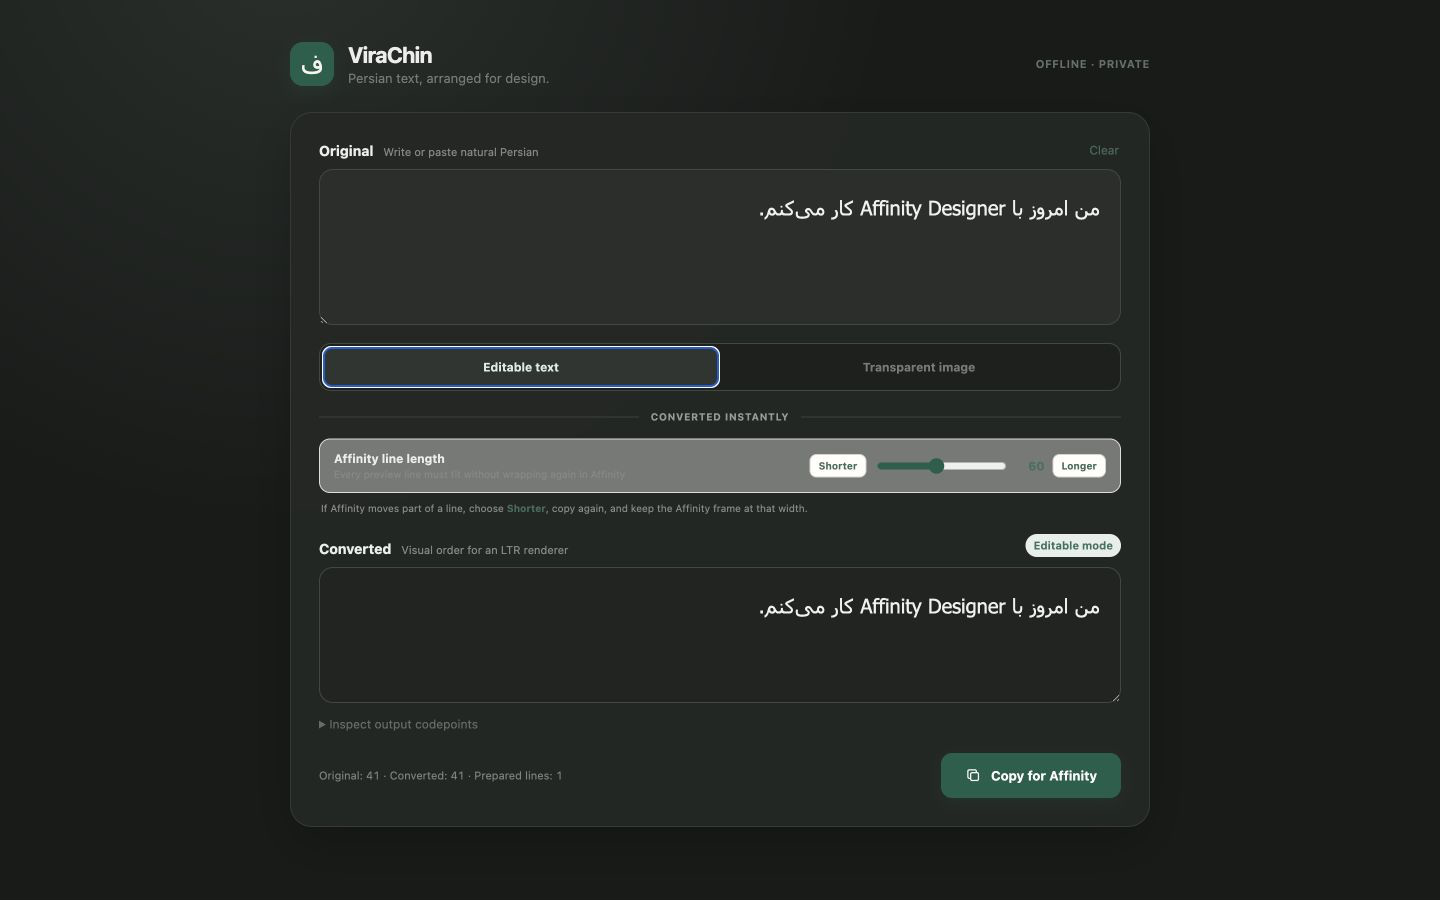
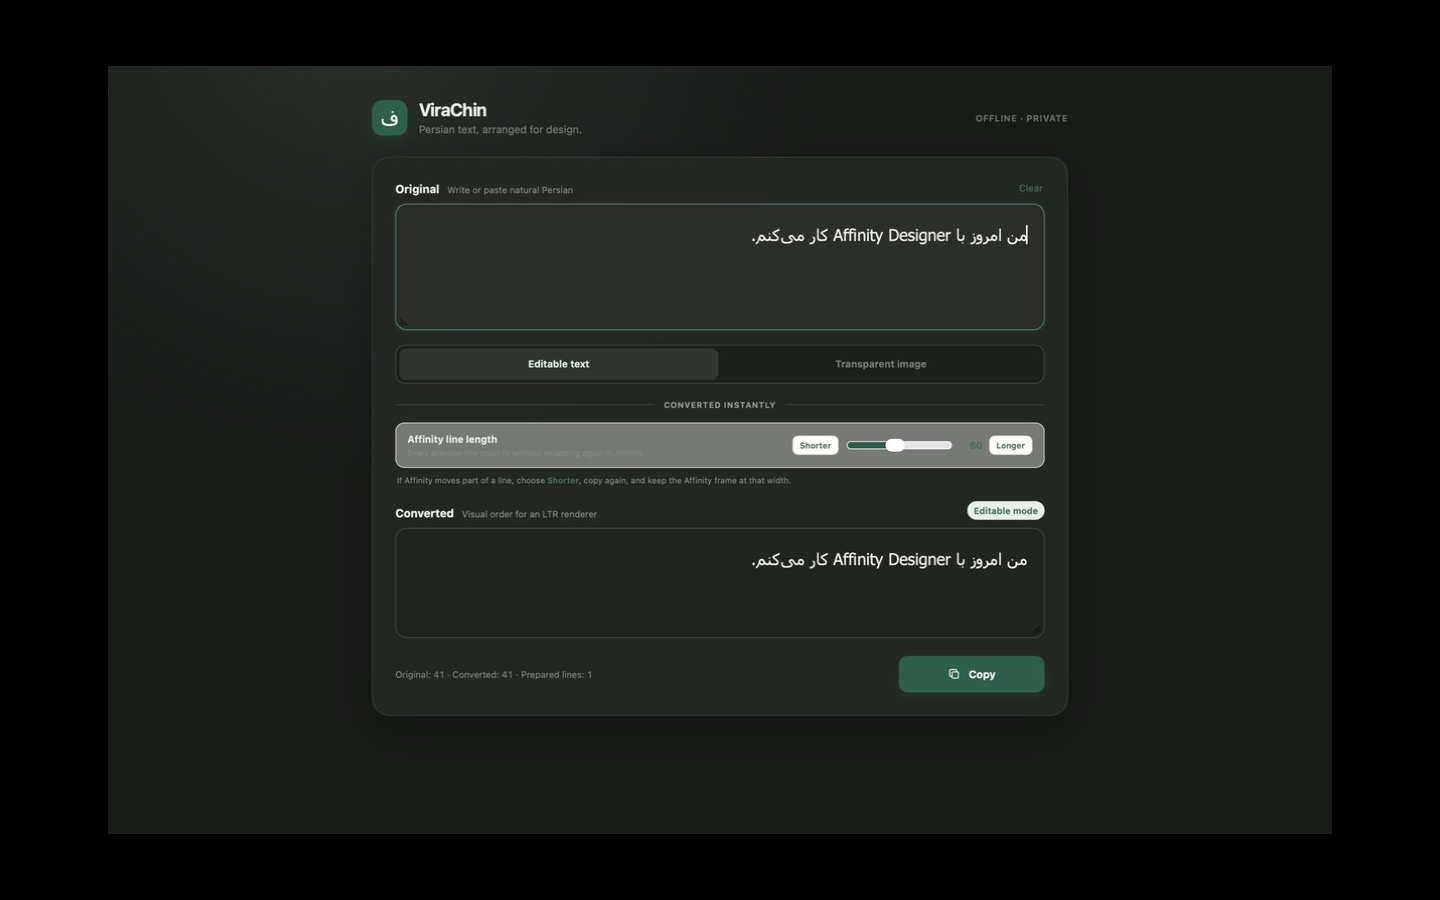
docs: add Mac App Store release channel

diff --git a/site/index.html b/site/index.html
@@ -11,8 +11,8 @@
     <meta property="og:type" content="website" />
     <title>ViraChin — Persian text, arranged for design</title>
     <link rel="icon" type="image/png" href="assets/virachin-icon.png" />
-    <link rel="stylesheet" href="styles.css?v=20260823-1" />
-    <script src="site.js?v=20260823-1" defer></script>
+    <link rel="stylesheet" href="styles.css?v=20260909-1" />
+    <script src="site.js?v=20260909-1" defer></script>
   </head>
   <body>
     <a class="skip-link" href="#main">Skip to content</a>
@@ -26,7 +26,7 @@
         <a href="#features">Features</a>
         <a href="#screenshots">Screenshots</a>
         <a href="#install">Install</a>
-        <a class="nav-download" href="https://github.com/hanifb1360/ViraChin-Releases/releases/tag/v0.2.2-beta">Download beta</a>
+        <a class="nav-download" href="https://apps.apple.com/app/id6806981817">Mac App Store</a>
       </nav>
     </header>
 
@@ -40,17 +40,18 @@
           <p class="lede">ViraChin prepares editable Persian text for applications with incomplete right-to-left support, and creates transparent title artwork using fonts already on your computer.</p>
           <p class="lede persian" lang="fa" dir="rtl">ویراچین متن فارسی را برای نرمافزارهای طراحی آماده میکند؛ بدون اینترنت، بدون حساب کاربری و بدون فرستادن متن شما به جایی.</p>
           <div class="hero-actions">
-            <a class="button primary" href="https://github.com/hanifb1360/ViraChin-Releases/releases/tag/v0.2.2-beta">Download beta</a>
+            <a class="button primary" href="https://apps.apple.com/app/id6806981817">Download on the Mac App Store</a>
+            <a class="button secondary" href="https://github.com/hanifb1360/ViraChin-Releases/releases/tag/v0.2.2-beta">Direct beta downloads</a>
             <a class="button secondary" href="#how-it-works">See how it works</a>
           </div>
-          <p class="release-note">Free beta · macOS universal · Windows x64 · Version 0.2.2</p>
+          <p class="release-note">Mac App Store 1.0.0 available · Version 1.0.1 in review · Windows beta 0.2.2</p>
         </div>
       </section>
 
       <section class="trust-strip" aria-label="Product principles">
         <div><strong>100% offline</strong><span>No server or connection required</span></div>
         <div><strong>Your text stays yours</strong><span>No accounts, analytics, or storage</span></div>
-        <div><strong>Built for real workflows</strong><span>Validated first with Affinity Designer</span></div>
+        <div><strong>Built for real workflows</strong><span>Made for design applications with incomplete RTL support</span></div>
       </section>
 
       <section class="section intro" id="how-it-works">
@@ -80,7 +81,7 @@
         <ol class="steps">
           <li><span>01</span><div><h3>Write naturally</h3><p>Paste ordinary Persian text exactly as you would write it anywhere else.</p></div></li>
           <li><span>02</span><div><h3>Prepare it locally</h3><p>Choose editable compatibility text or transparent title artwork. Nothing leaves your computer.</p></div></li>
-          <li><span>03</span><div><h3>Place it in your design</h3><p>Copy the result into Affinity Designer or export transparent PNG artwork for any application.</p></div></li>
+          <li><span>03</span><div><h3>Place it in your design</h3><p>Copy the result into your design application or export transparent PNG artwork for use anywhere.</p></div></li>
         </ol>
       </section>
 
@@ -92,7 +93,7 @@
         <div class="story-layout">
           <div class="story-stage-wrap" aria-hidden="true">
             <div class="story-stage">
-              <img class="story-scene is-active" data-story-scene="editable" src="assets/virachin-editable-mode.png" alt="" />
+              <img class="story-scene is-active" data-story-scene="editable" src="assets/virachin-editable-mode.png?v=20260909-1" alt="" />
               <img class="story-scene" data-story-scene="artwork" src="assets/virachin-transparent-image-mode.png" alt="" />
               <div class="story-caption">
                 <span class="story-caption-text is-active" data-story-caption="editable">Editable compatibility text</span>
@@ -105,8 +106,8 @@
             <article class="story-step is-active" data-story-step="editable">
               <span>01</span>
               <h3>Keep the words editable.</h3>
-              <p>Write naturally, set a line length that fits your Affinity frame, and copy prepared Persian text without giving up editability.</p>
-              <img class="story-mobile-image" src="assets/virachin-editable-mode.png" alt="ViraChin preparing editable Persian compatibility text" loading="lazy" />
+              <p>Write naturally, set a line length that fits your destination text frame, and copy prepared Persian text without giving up editability.</p>
+              <img class="story-mobile-image" src="assets/virachin-editable-mode.png?v=20260909-1" alt="ViraChin preparing editable Persian compatibility text" loading="lazy" />
             </article>
             <article class="story-step" data-story-step="artwork">
               <span>02</span>
@@ -133,7 +134,7 @@
               <b><i></i></b>
             </div>
             <ul>
-              <li>Adjustable line length for Affinity text frames</li>
+              <li>Adjustable line length for destination text frames</li>
               <li>Instant conversion and codepoint inspection</li>
               <li>Copy-ready output that remains editable</li>
             </ul>
@@ -160,7 +161,7 @@
           <h2>A calm workspace for difficult text.</h2>
         </div>
         <figure class="screen screen-wide">
-          <img src="assets/virachin-editable-mode.png" alt="ViraChin editable compatibility text interface" loading="lazy" />
+          <img src="assets/virachin-editable-mode.png?v=20260909-1" alt="ViraChin editable compatibility text interface" loading="lazy" />
           <figcaption><strong>Editable mode</strong><span>Natural Persian in, compatibility text out—with the line length under your control.</span></figcaption>
         </figure>
         <figure class="screen screen-wide">
@@ -171,17 +172,19 @@
 
       <section class="section install" id="install">
         <div>
-          <p class="eyebrow">Install the beta</p>
-          <h2>Download. Open safely.<br />Start designing.</h2>
-          <p>The beta is not yet backed by paid platform signing identities. macOS and Windows may show publisher warnings; verify the matching SHA-256 checksum and follow the platform-specific safe installation steps.</p>
-          <a class="text-link" href="https://github.com/hanifb1360/ViraChin-Releases#safe-installation">Read the safe installation guide →</a>
+          <p class="eyebrow">Install ViraChin</p>
+          <h2>Download securely.<br />Start designing.</h2>
+          <p>The Mac App Store edition is signed, sandboxed, and distributed by Apple. Version 1.0.0 is available now, and version 1.0.1 has been submitted for review.</p>
+          <p>The separate Windows and direct-download macOS beta remains at version 0.2.2 and may show publisher warnings.</p>
+          <a class="text-link" href="https://github.com/hanifb1360/ViraChin-Releases#safe-installation">Read the direct-beta installation guide →</a>
         </div>
         <div class="download-card">
           <img src="assets/virachin-icon.png" width="88" height="88" alt="ViraChin app icon" />
-          <div><strong>ViraChin 0.2.2 beta</strong><span>macOS universal · Windows x64</span></div>
-          <a class="button primary" href="https://github.com/hanifb1360/ViraChin-Releases/releases/tag/v0.2.2-beta">View downloads</a>
+          <div><strong>ViraChin for Mac</strong><span>Version 1.0.0 · 1.0.1 update in review</span></div>
+          <a class="button primary" href="https://apps.apple.com/app/id6806981817">View on the Mac App Store</a>
+          <a class="text-link" href="https://github.com/hanifb1360/ViraChin-Releases/releases/tag/v0.2.2-beta">Windows or direct-download beta →</a>
           <div class="safe-progress" aria-hidden="true"><span><i></i></span><em>Checksum ready</em></div>
-          <small>Always verify the included SHA-256 checksum before installation.</small>
+          <small>Checksums remain available for every direct-download beta installer.</small>
         </div>
       </section>
 

diff --git a/README.md b/README.md
@@ -6,7 +6,7 @@ This repository contains the official public downloads and installation guidance
 
 Visit the [ViraChin website](https://hanifb1360.github.io/ViraChin-Releases/) for the product overview, screenshots, and download guidance.
 
-ViraChin is an offline macOS and Windows utility that prepares editable Persian compatibility text for applications with deficient right-to-left layout, with Affinity Designer as its first validation target. It can also create transparent Persian title artwork using local fonts.
+ViraChin is an offline macOS and Windows utility that prepares editable Persian compatibility text for design applications with incomplete right-to-left support. It can also create transparent Persian title artwork using local fonts.
 
 ## Screenshots
 
@@ -18,7 +18,13 @@ ViraChin is an offline macOS and Windows utility that prepares editable Persian 
 
 ![ViraChin transparent-image title designer](screenshots/virachin-transparent-image-mode.png)
 
-## Download the beta
+## Mac App Store
+
+[ViraChin for Mac](https://apps.apple.com/app/id6806981817) is distributed through the Mac App Store. Version 1.0.0 is available now, and version 1.0.1 has been submitted to Apple for review.
+
+The Mac App Store edition is signed, sandboxed, and distributed by Apple. It installs normally without the unidentified-developer exception required by the older direct-download macOS beta.
+
+## Direct-download beta
 
 Download [ViraChin 0.2.2 Beta](https://github.com/hanifb1360/ViraChin-Releases/releases/tag/v0.2.2-beta) for:
 
@@ -86,9 +92,9 @@ Do not disable SmartScreen, Microsoft Defender, Smart App Control, or other Wind
 
 ViraChin has no backend, account, analytics, or network-dependent conversion. Input text remains local and is not persisted. Clipboard access occurs only after the user presses a copy button.
 
-## Important Affinity limitation
+## Editable-text compatibility note
 
-Each prepared visual-order line must fit inside the Affinity text frame without wrapping again. If Affinity moves a fragment to the bottom of the text, return to ViraChin, choose a shorter line length, and copy again.
+Each prepared visual-order line must fit inside the destination text frame without wrapping again. If an application moves a fragment to the bottom of the text, return to ViraChin, choose a shorter line length, and copy again.
 
 ## Artwork
 
